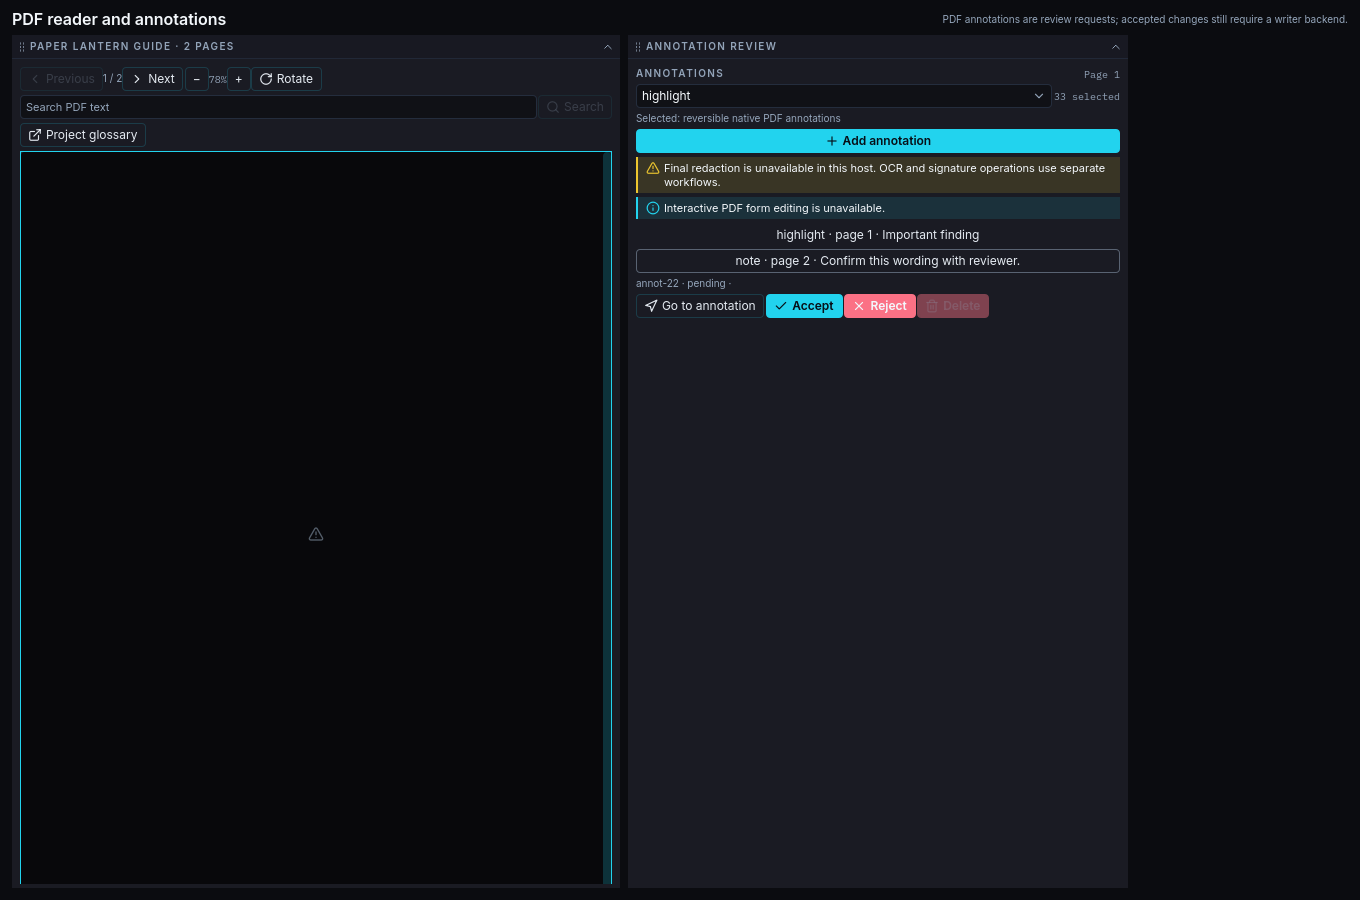
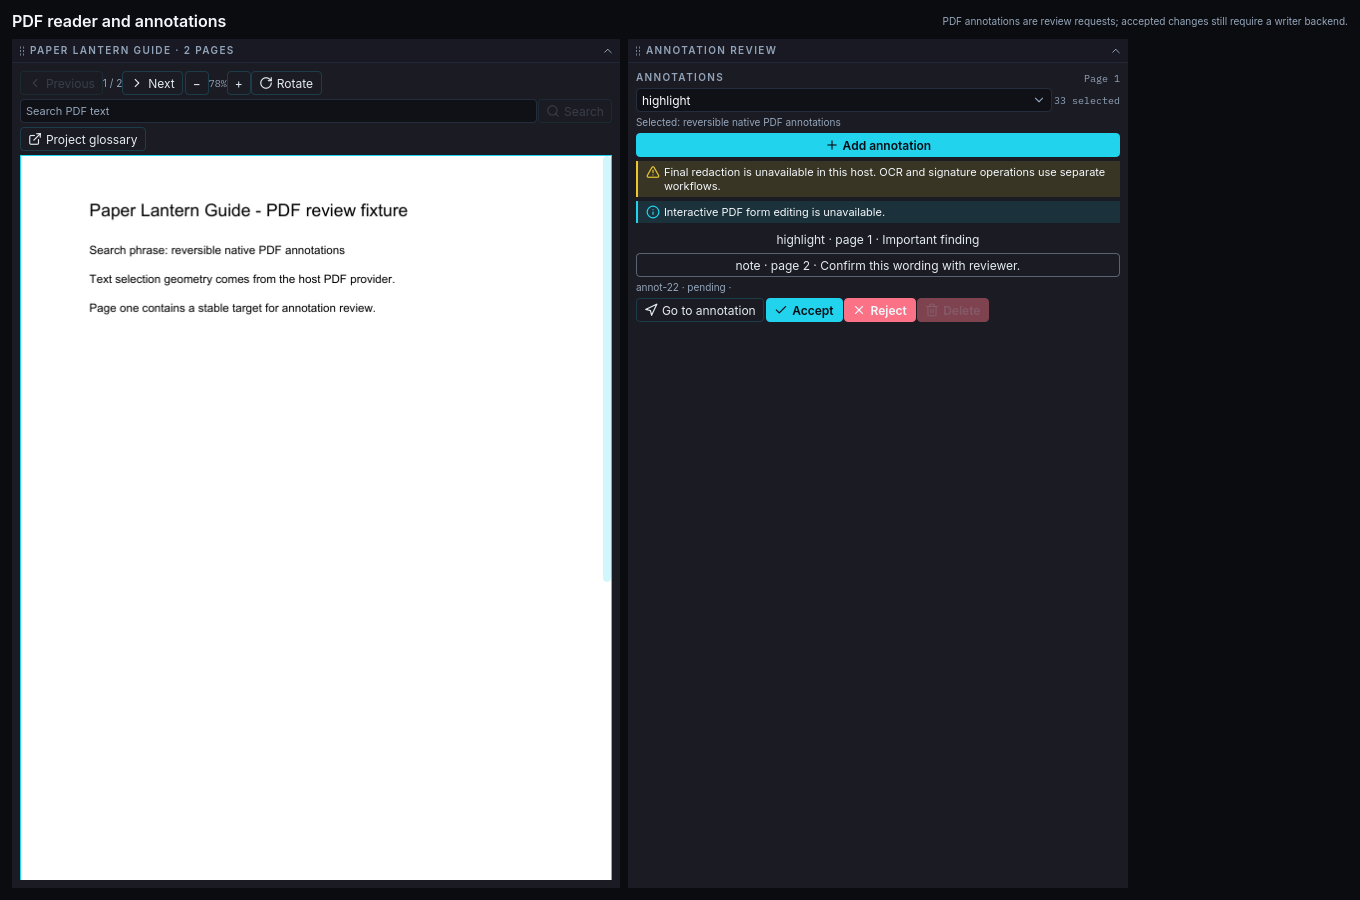
Integrate PDF viewer with real page rendering
Size PDF page requests to the displayed image, let the viewer scroll within its allocated panel, and record merged visual/test evidence. The preview dump shows PdfView 592x809, page window 592x725, and page image 592x766. Record the local video frame decoder progress separately.

diff --git a/src/qml/PdfView.qml b/src/qml/PdfView.qml
@@ -38,7 +38,7 @@ Item {
     signal linkActivatedRequested(string linkId, string target)
 
     implicitWidth: Tk.Theme.size.panelMinWidth * 3
-    implicitHeight: content.implicitHeight
+    implicitHeight: Math.max(content.implicitHeight, Tk.Theme.size.panelMinHeight * 7)
     Accessible.role: Accessible.Pane
     Accessible.name: tooltip
     Accessible.description: pageCount > 0 ? qsTr("Page %1 of %2 at %3 percent zoom")
@@ -87,6 +87,7 @@ Item {
     Tk.Flex {
         id: content
         width: control.width > 0 ? control.width : implicitWidth
+        height: control.height > 0 ? control.height : implicitHeight
         direction: Tk.Flex.Column
         align: Tk.Flex.Stretch
         gap: Tk.Theme.space.sm
@@ -246,6 +247,8 @@ Item {
         Tk.Scroll {
             objectName: "pdfPageWindow"
             implicitHeight: Math.max(Tk.Theme.size.panelMinWidth * 2.4, Math.min(pageColumn.implicitHeight, Tk.Theme.size.panelMinWidth * 5))
+            Tk.Flex.grow: 1
+            Tk.Flex.basis: 0
             overflowY: Tk.Scroll.Auto
             Tk.Flex {
                 id: pageColumn
@@ -272,7 +275,10 @@ Item {
                             provider: control.provider
                             resourceId: control.resourceId
                             requestKind: "pdf-page"
-                            requestOptions: ({ pageIndex: modelData.pageIndex, rotation: modelData.rotation || 0 })
+                            requestOptions: ({ pageIndex: modelData.pageIndex,
+                                               rotation: modelData.rotation || 0,
+                                               size: { width: Math.max(1, Math.ceil(pageImage.width)),
+                                                       height: Math.max(1, Math.ceil(pageImage.height)) } })
                             document: control.document
                             viewId: control.viewId
                             tooltip: qsTr("Rendered PDF page %1").arg(modelData.pageIndex + 1)

diff --git a/docs/universal-toolkit/implementation/execution-ledger.md b/docs/universal-toolkit/implementation/execution-ledger.md
@@ -89,7 +89,7 @@ as though a later fix had already passed the earlier run.
 | [WP-051 — Add publishing structure, styles and tables](phase-04-office.md#wp-051) | 04 | Sol | active | [Four authoring controls integrated; production document operations pending](evidence/WP-051.md) |
 | [WP-052 — Add equations, references and document review](phase-04-office.md#wp-052) | 04 | Sol | active | [Equation, reference and review request controls integrated; semantic document backend pending](evidence/WP-052.md) |
 | [WP-053 — Implement printing and publishing preflight](phase-04-office.md#wp-053) | 04 | Sol | active | [Three-page PDF export and preview/preflight controls integrated; native print jobs and backend checks pending](evidence/WP-053.md) |
-| [WP-054 — Implement PDF viewing and annotation](phase-04-office.md#wp-054) | 04 | Sol | planned | — |
+| [WP-054 — Implement PDF viewing and annotation](phase-04-office.md#wp-054) | 04 | Sol | active | [PDF controls, page rendering and text coordinates integrated; annotation writer pending](evidence/WP-054.md) |
 | [WP-055 — Implement a workbook and spreadsheet editing stack](phase-04-office.md#wp-055) | 04 | Sol | active | Isolated Opus lane; G-1–G-8 and full package scope remain under review |
 | [WP-056 — Implement slide authoring and presentation](phase-04-office.md#wp-056) | 04 | Sol | planned | — |
 | [WP-057 — Implement notebooks and structured blocks](phase-04-office.md#wp-057) | 04 | Sol | planned | — |
@@ -104,7 +104,7 @@ as though a later fix had already passed the earlier run.
 | [WP-066 — Integrate plugin hosting and plugin controls](phase-05-audio.md#wp-066) | 05 | Sol | planned | — |
 | [WP-067 — Implement score and notation editing](phase-05-audio.md#wp-067) | 05 | Sol | planned | — |
 | [WP-068 — Implement pitch analysis and correction editing](phase-05-audio.md#wp-068) | 05 | Sol | planned | — |
-| [WP-070 — Integrate media decoding and source/program monitors](phase-06-video.md#wp-070) | 06 | Sol | active | [Monitor and media-bin controls integrated; decoder and frame lifecycle pending](evidence/WP-070.md) |
+| [WP-070 — Integrate media decoding and source/program monitors](phase-06-video.md#wp-070) | 06 | Sol | active | [Monitor/bin controls and local frame decode integrated; playback and frame lifecycle pending](evidence/WP-070.md) |
 | [WP-071 — Implement professional timeline video edits](phase-06-video.md#wp-071) | 06 | Sol | planned | — |
 | [WP-072 — Implement captions, scopes and grading controls](phase-06-video.md#wp-072) | 06 | Sol | planned | — |
 | [WP-073 — Implement motion composition and keyframe editing](phase-06-video.md#wp-073) | 06 | Sol | planned | — |

diff --git a/docs/universal-toolkit/implementation/evidence/WP-054.md b/docs/universal-toolkit/implementation/evidence/WP-054.md
@@ -1,0 +1,29 @@
+<!-- SPDX-License-Identifier: LGPL-3.0-or-later -->
+# WP-054 — PDF viewing and annotation
+
+**State: active; package not accepted.**
+
+Luna's isolated `work/wp054-pdf-panels` lane was integrated as `5801f5e`.
+It adds `PdfView` and `PdfAnnotationTools` over a bounded host-supplied page
+window, stable annotation IDs and explicit request/acknowledgment state. The
+two-page fixture uses `AssetProvider` for actual `pdf-page` image requests
+and `pdf-text` search word positions. The lane's focused QML test passed 3/3
+and its preview check passed with the configured `-j24 -l24` build limits.
+
+The merged default file backend now renders local PDF pages through
+`pdftoppm`, returns document page count through `pdfinfo`, and extracts text
+with point-space word rectangles through `pdftotext`. Worker subprocesses
+are cancellable and bounded by 30 seconds and 32 MiB output. A focused
+`tst_file_asset_backend` test passed after PDF page, rotation and text cases
+were added.
+
+The merged tree passed the focused `tst_file_asset_backend`, PDF fixture,
+waveform fixture and mixer fixture CTest run (4/4). In the inspected
+[PDF reader capture](../../../screenshots/wp054-pdf-review.png), a real page
+renders at the displayed size, and the page window scrolls inside the viewer.
+The final preview dump placed `PdfView#pdfView` at 592×809,
+`Scroll#pdfPageWindow` at 592×725, and the page render at 592×766.
+
+Annotation persistence and reopen, interactive forms, final redaction, OCR
+and signature workflows remain open. The controls expose these unavailable
+capabilities instead of claiming they work.

diff --git a/docs/universal-toolkit/implementation/evidence/WP-070.md b/docs/universal-toolkit/implementation/evidence/WP-070.md
@@ -1,8 +1,8 @@
 <!-- SPDX-License-Identifier: LGPL-3.0-or-later -->
 # WP-070 — Media decoding and source/program monitors
 
-**State: active; package not accepted.** The decoder, frame cache, sync and
-sequence output backend remain open.
+**State: active; package not accepted.** Local frame and thumbnail decode is
+implemented; playback, frame cache, A/V sync and sequence output remain open.
 
 Luna's isolated `work/wp070-monitor-bin` lane was integrated as `f3e795f`.
 `SourceProgramMonitor` sends exact frame IDs and timestamps to its owner and
@@ -19,3 +19,11 @@ frame and thumbnail placeholders are expected because this fixture has no
 decoder or asset thumbnail provider. The merged `build/integration` build
 compiled the controls, and `example_media_source_browser` passed its focused
 CTest smoke check.
+
+The default file asset backend now uses installed FFmpeg command-line tools
+to read local video metadata and decode `frame`/`thumbnail` requests. A numeric
+`frameId` selects an exact zero-based decoded frame; timestamp requests carry
+an `exactFrameIndex: false` result flag. The focused backend test generated a
+two-frame FFV1 video, decoded both frame and thumbnail requests, and passed.
+The fixture still intentionally uses placeholder monitor frames because it
+does not supply a video asset resource ID.

diff --git a/docs/universal-toolkit/implementation/phase-04-office.md b/docs/universal-toolkit/implementation/phase-04-office.md
@@ -97,7 +97,7 @@ new filenames and interfaces are finalized in the owning package.
 <a id="wp-054"></a>
 ## WP-054 — Implement PDF viewing and annotation
 
-**Implementation lead:** Sol. **Status:** planned. **Depends on:** [WP-019](phase-01-services.md#wp-019), [WP-040](phase-03-authoring.md#wp-040)
+**Implementation lead:** Sol. **Status:** active (PDF controls, real page render and text extraction integrated; annotation writing pending). **Depends on:** [WP-019](phase-01-services.md#wp-019), [WP-040](phase-03-authoring.md#wp-040)
 
 **Proposal scope:** [OFF-24 PdfView](../proposed/05-documents-office.md#off-24), [OFF-25 PdfAnnotationTools](../proposed/05-documents-office.md#off-25)
 

diff --git a/examples/README.md b/examples/README.md
@@ -25,6 +25,10 @@ The [print and preflight workbench](print-preflight/Main.qml) exercises
 `PrintPreview` and `PreflightPanel` with a live rich-document preview and
 sample host-owned output issues.
 
+The [PDF reader and review fixture](pdf-review/Main.qml) exercises `PdfView`
+and `PdfAnnotationTools` on a two-page PDF. The default asset backend renders
+pages and extracts searchable word positions through Poppler tools.
+
 The [device settings panel](device-settings-panel.qml) exercises pending
 audio configuration and explicit host accept/reject acknowledgments. A real
 device engine must supply enumeration and apply the settings.

diff --git a/docs/universal-toolkit/implementation/phase-06-video.md b/docs/universal-toolkit/implementation/phase-06-video.md
@@ -1,7 +1,7 @@
 <!-- SPDX-License-Identifier: LGPL-3.0-or-later -->
 # Phase 06 — Video, motion and 3D workflows
 
-**IN PROGRESS — WP-070 monitor and bin controls are implemented; decoding remains open.**
+**IN PROGRESS — WP-070 monitor and bin controls and local asset-frame decoding are implemented; playback and sequence output remain open.**
 
 [Plan](README.md) · [Ledger](execution-ledger.md) · [Delegation rules](orchestration.md) · [Acceptance](acceptance.md)
 
